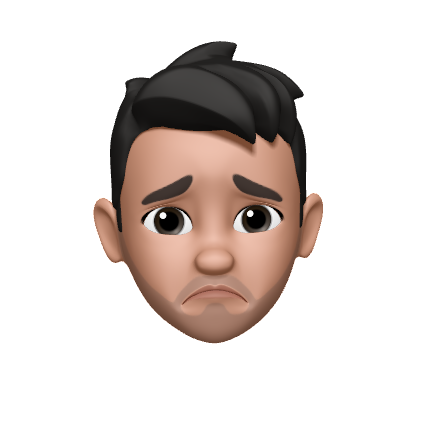
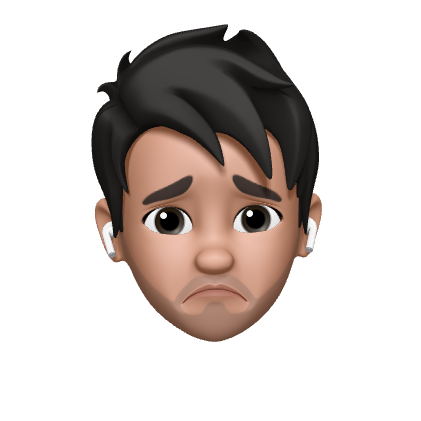
Footer memoji galore

diff --git a/src/Components/FooterComp.js b/src/Components/FooterComp.js
@@ -2,6 +2,20 @@ import React, { Component } from 'react'
 import me from '../Data/me'
 
 export default class FooterComp extends Component {
+
+    state = {
+        memojiID : 0
+    }
+
+    changeMemoji = () => {
+        if(this.state.memojiID === 6) {
+            this.setState({memojiID : 0})
+        }
+        else {
+            this.setState({memojiID : this.state.memojiID + 1})
+        }
+    }
+
     render() {
         return (
             <div className="container">
@@ -10,13 +24,13 @@ export default class FooterComp extends Component {
                 <p className="montfont text-right text-8">- Albus Dumbledore</p>
                 <br/><br/>
                 <div className="row justify-content-center">
-                   <div className="col-3 col-md-2 center-block">
-                        <img src={me.memoji} alt="Memoji" height="auto" width="100%"/>
+                    <div onClick={() => this.changeMemoji()} className="col-3 col-md-2 center-block">
+                        <img src={me.memoji[this.state.memojiID]} alt="Memoji" height="auto" width="100%"/>
                     </div>
                 </div>
         <p className="jostfont text-8">Sabesh Bharathi © {(new Date()).getFullYear()}</p>
                 <span className="jostfont text-9">
-                    Developed with  
+                    Designed with  
                 </span>
                 <span className="heart">
                     <svg width="0.8em" height="0.8em" viewBox="0 0 16 16" class="bi bi-heart-fill" fill="currentColor" xmlns="http://www.w3.org/2000/svg">
@@ -28,6 +42,9 @@ export default class FooterComp extends Component {
                         </defs>
                         <path fill-rule="evenodd" d="M8 1.314C12.438-3.248 23.534 4.735 8 15-7.534 4.736 3.562-3.248 8 1.314z"/>
                     </svg>
+                </span>
+                <span className="jostfont text-9">
+                    using React
                 </span>
                 
                 <br/><br/>

diff --git a/src/Data/me.js b/src/Data/me.js
@@ -16,7 +16,15 @@ const me = {
     id: 0,
     mainimg: "/assets/images/pics/sabesh.jpeg",
     aboutimg: "/assets/images/pics/sabs.JPG",
-    memoji: "/assets/images/pics/memoji.png",
+    memoji: [
+        "/assets/images/pics/memoji1.png",
+        "/assets/images/pics/memoji2.png",
+        "/assets/images/pics/memoji3.png",
+        "/assets/images/pics/memoji4.png",
+        "/assets/images/pics/memoji5.png",
+        "/assets/images/pics/memoji6.png",
+        "/assets/images/pics/memoji7.png"
+    ],
     name: "Sabesh Bharathi",
     tagline: `Apple ${appleLogo()} WWDC21 Scholar. Web/iOS Developer, Designer.`,
     age: 19,

diff --git a/src/App.css b/src/App.css
@@ -608,6 +608,7 @@ a {
 
 .heart {
   margin-left: 8px;
+  margin-right: 8px;
 }
 
 .heart path{
